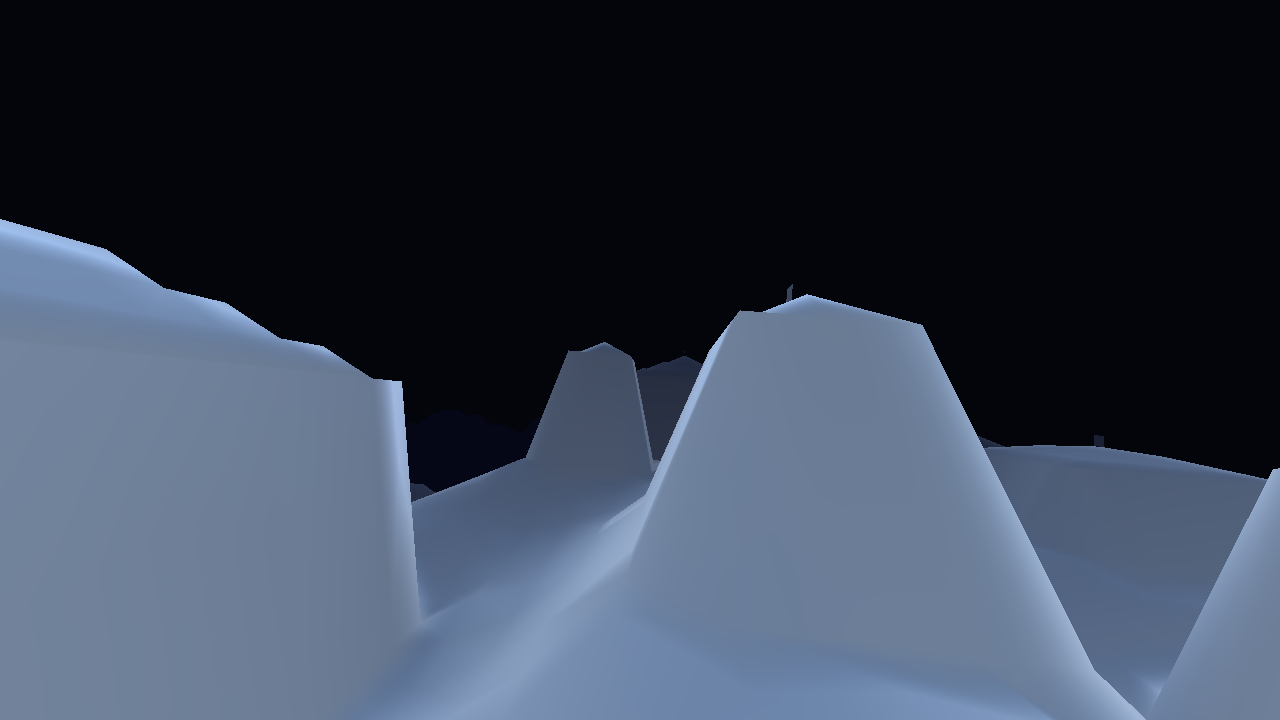
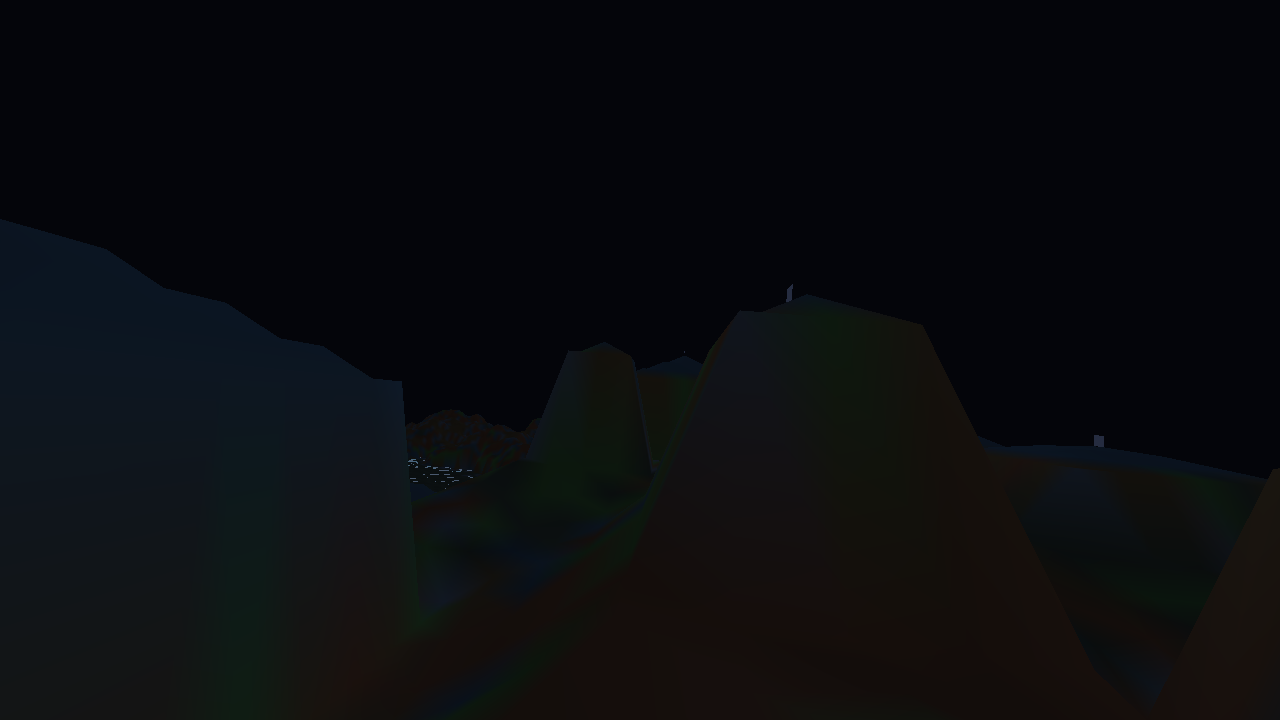
fix(unity-enhanced): light generated night presentation

diff --git a/research/private/remc2-unity-presentation-lab/Assets/Tests/Editor/UnityEnhancedLifecycleEditModeTests.cs b/research/private/remc2-unity-presentation-lab/Assets/Tests/Editor/UnityEnhancedLifecycleEditModeTests.cs
@@ -296,6 +296,37 @@ namespace MagicCarpet.PresentationLab.Tests
         }
 
         [Test]
+        public void ClosingDestroysPooledEntitiesImmediatelyInEditMode()
+        {
+            GameObject gameObject = new GameObject("enhanced-close-pool-test");
+            UnityEnhancedWorldRoot root = gameObject.AddComponent<UnityEnhancedWorldRoot>();
+            root.OpenDiagnostic(PresentationModeId.UnityEnhanced);
+
+            Assert.IsTrue(root.ApplySnapshot(new UnityEnhancedWorldSnapshot
+            {
+                Generation = 1,
+                Tick = 1,
+                CameraPose = new UnityEnhancedCameraPose(Vector3.zero, Quaternion.identity, 70f),
+                Entities = new[] { Entity(1, 30, Vector3.zero) }
+            }));
+            Assert.IsTrue(root.ApplySnapshot(new UnityEnhancedWorldSnapshot
+            {
+                Generation = 2,
+                Tick = 0,
+                Reset = true,
+                CameraPose = new UnityEnhancedCameraPose(Vector3.zero, Quaternion.identity, 70f),
+                Entities = new UnityEnhancedEntitySnapshot[0]
+            }));
+            Assert.AreEqual(1, root.PooledEntityCount);
+
+            root.Close();
+
+            Assert.AreEqual(UnityEnhancedLifecycleState.Closed, root.State);
+            Assert.AreEqual(0, root.PooledEntityCount);
+            Object.DestroyImmediate(gameObject);
+        }
+
+        [Test]
         public void PresentationAdaptersRejectDuplicateEvents()
         {
             GameObject gameObject = new GameObject("enhanced-adapter-test");

diff --git a/research/private/remc2-unity-presentation-lab/Assets/Scripts/UnityEnhancedWorldRoot.cs b/research/private/remc2-unity-presentation-lab/Assets/Scripts/UnityEnhancedWorldRoot.cs
@@ -820,7 +820,14 @@ namespace MagicCarpet.PresentationLab
                 GameObject view = pooledEntities.Pop();
                 if (view != null)
                 {
-                    Destroy(view);
+                    if (Application.isPlaying)
+                    {
+                        Destroy(view);
+                    }
+                    else
+                    {
+                        DestroyImmediate(view);
+                    }
                 }
             }
         }
